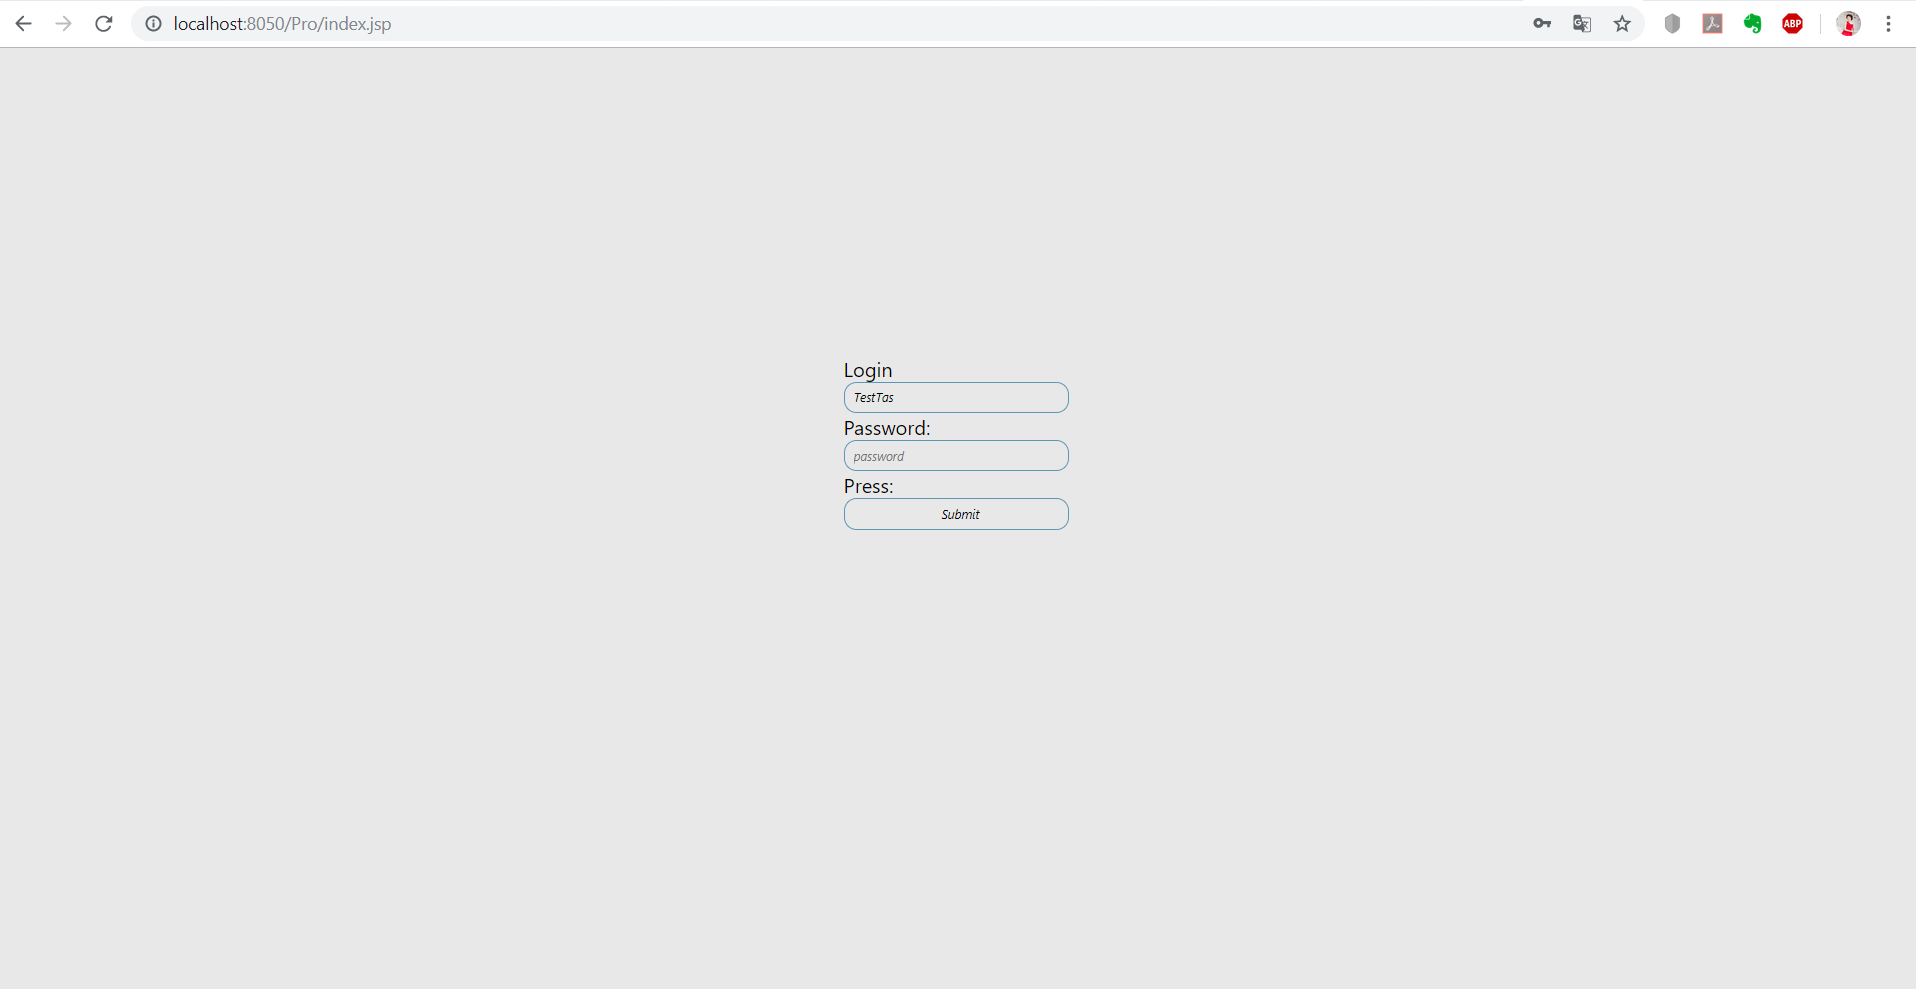
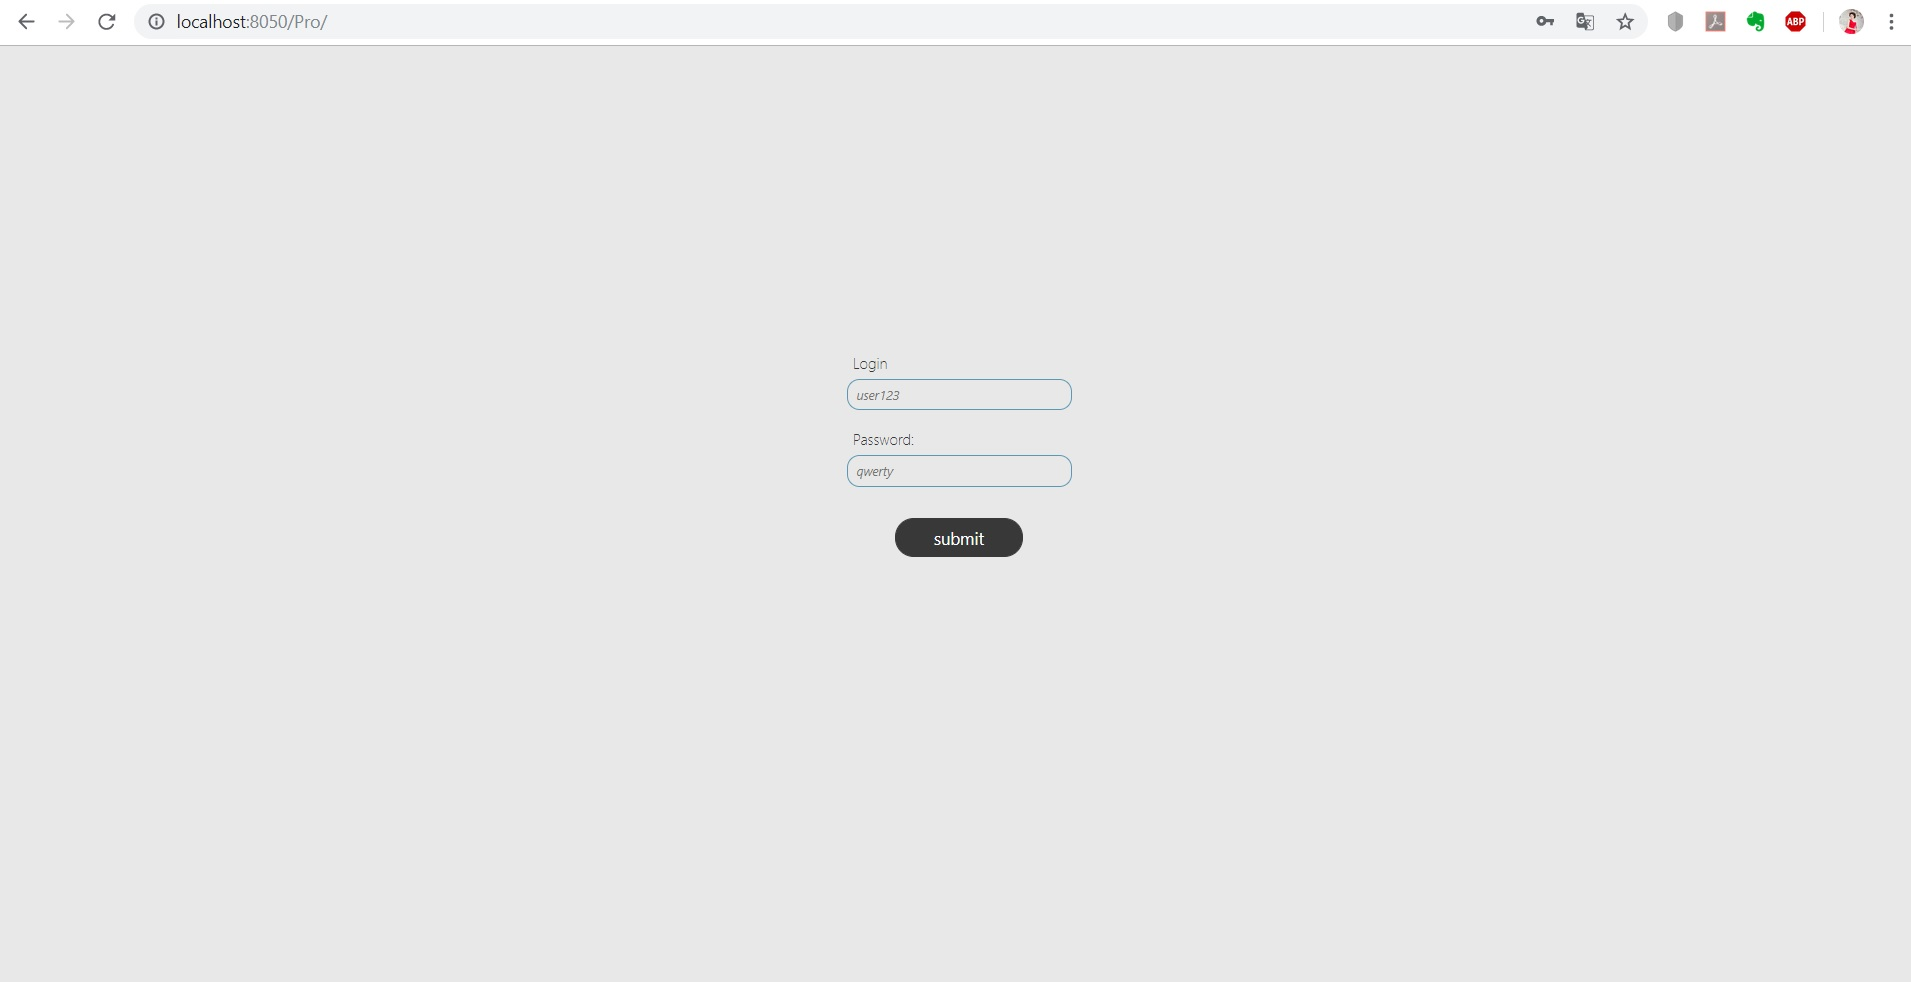
improve start page

Changed region(s): [[0.4322, 0.3666, 0.5557, 0.5804], [0.8027, 0.0, 0.988, 0.0611], [0.0309, 0.0, 0.2161, 0.0305]]

diff --git a/src/main/java/Main.java b/src/main/java/Main.java
@@ -14,7 +14,7 @@ import java.util.ArrayList;
 public class Main {
     public static void main(String[] args) throws Exception {
         //  HibernateConnector.getSession();
-        // TransferDataFromExcel();
+        //DAO.TransferDataFromExcel();
        //  DAO.addNewDataIfExist();
 
     }
